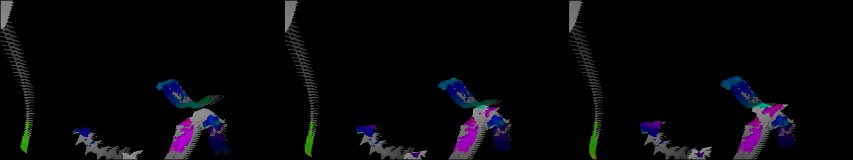
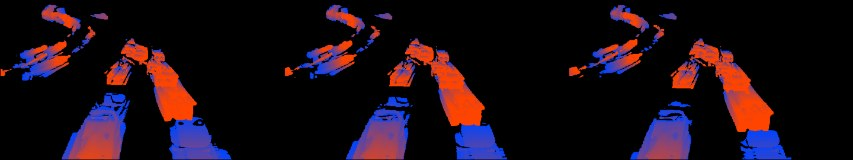
Fixes from the after-test and the blind critique
The hue legend now shows in the trails' measured view (a tester caught
its absence); picking an effect with nothing loaded scrolls the atlas to
that effect's row (two testers got lost exactly there); the caption
strip and the instrument margin no longer show a stale effect and an
empty gauge on the landing; the viewfinder's question-strip words now
match the effect names; 'except the background' and 'fastest moving
cells' replace the two labels the critique called out; a brighter
specimen strip for Leave trails. Verdict X-1 records the results: all
four goals reached, the two built combinations now found in one or two
clicks where the baseline never found them.

Claude-Session: https://claude.ai/code/session_015Sy9n4AKD5EpJ8DTRzyYLn

diff --git a/src/styles/main.css b/src/styles/main.css
@@ -95,8 +95,8 @@ kbd { font: 500 11px/1 var(--mono); border: 1px solid var(--rule); border-radius
 .plates button.active { color: var(--ink); font-weight: 600; border-bottom-color: var(--accent); }
 #app[data-layout='viewfinder'] .plates { display: none; }
 
-/* variants: an effect's looks as rows of pills (caption, and the viewfinder fan) */
-.choices { display: grid; gap: 4px; margin-top: 7px; }
+/* variants: an effect's looks as pills, one wrapping row (caption and fan) */
+.choices { display: flex; flex-wrap: wrap; align-items: baseline; gap: 4px 16px; margin-top: 6px; }
 .choice { display: flex; flex-wrap: wrap; align-items: baseline; gap: 4px 6px; font: 400 11px/1 var(--mono); }
 .choice > span { color: var(--soft); margin-right: 2px; }
 .choice button { background: none; border: 1px solid var(--rule); border-radius: 999px; padding: 4px 9px; font: 400 11px/1 var(--mono); color: var(--soft); }
@@ -224,9 +224,10 @@ kbd { font: 500 11px/1 var(--mono); border: 1px solid var(--rule); border-radius
 
 /* caption strip */
 .cap { display: grid; grid-template-columns: minmax(280px, 1.25fr) minmax(280px, 2fr) auto; column-gap: 28px; row-gap: 6px; align-items: end; border-top: 1px solid var(--ink); padding-top: 8px; }
-.cap-mode h1 { margin: 0; font: 600 38px/0.9 var(--serif); letter-spacing: -0.03em; white-space: nowrap; }
-.cap-mode h1 small { font: 400 11px/1 var(--mono); letter-spacing: 0; color: var(--soft); margin-left: 8px; vertical-align: 12px; }
-.cap-mode p { margin: 5px 0 0; font: italic 400 13px/1.25 var(--serif); color: var(--soft); max-width: 44ch; display: -webkit-box; -webkit-line-clamp: 3; -webkit-box-orient: vertical; overflow: hidden; }
+.cap-mode h1 { margin: 0; font: 600 30px/0.95 var(--serif); letter-spacing: -0.03em; white-space: nowrap; }
+.cap-mode h1 small { font: 400 11px/1 var(--mono); letter-spacing: 0; color: var(--soft); margin-left: 8px; vertical-align: 8px; }
+.cap-mode p { margin: 4px 0 0; font: italic 400 13px/1.25 var(--serif); color: var(--soft); max-width: 44ch; display: -webkit-box; -webkit-line-clamp: 2; -webkit-box-orient: vertical; overflow: hidden; }
+.cap-mode p:empty { display: none; }
 
 .ruler { position: relative; height: 82px; font: 400 11px/1 var(--mono); color: var(--soft); }
 .ruler-track { position: absolute; inset: 0; }
@@ -255,8 +256,10 @@ kbd { font: 500 11px/1 var(--mono); border: 1px solid var(--rule); border-radius
 .ruler-mark-trail { --flag: 9px; --mark: var(--soft); }
 /* label below the axis, anchored to the marker's foot so a taller phone hit box cannot lift it */
 .ruler-mark-trail b { top: auto; bottom: -15px; background: var(--paper); color: var(--soft) !important; padding: 1px 4px; z-index: 1; }
-/* nothing to play yet: the transport would only be dead buttons */
+/* nothing to play yet: the atlas is the page, so the caption strip and the
+   instrument margin would only show a stale effect and an empty gauge */
 #app[data-source='empty'] .play, #app[data-source='empty'] .scrub { visibility: hidden; }
+#app[data-layout='plate'][data-source='empty'] .cap, #app[data-source='empty'] .readings { display: none; }
 .ruler-now { right: 0; width: 2px; height: 30px; background: var(--ink); transform: none; }
 .ruler-readout { margin: 0; position: absolute; left: 0; right: 0; bottom: 14px; font: italic 400 14px/1.35 var(--serif); color: var(--ink); max-width: 52ch; }
 

diff --git a/src/ui/shell.js b/src/ui/shell.js
@@ -323,6 +323,12 @@ export function initShell({ root, session }) {
     if (Object.keys(next).length) session.setParams(next);
     view.fan = false;
     applyMode();
+    // With nothing loaded yet, the pick leads to the effect's own page of
+    // the atlas, where its footage waits.
+    if (!session.loaded) {
+      const at = [...$('atlas').children][EFFECTS.indexOf(effect)];
+      at?.scrollIntoView({ block: 'start', behavior: 'smooth' });
+    }
   }
 
   /** The variants of an effect as rows of pills; shared by caption and fan. */
@@ -394,7 +400,9 @@ export function initShell({ root, session }) {
     const effect = effectForMode(mode.id);
     $('modeName').textContent = effect.label;
     $('modeIndex').textContent = `Plate ${effect.numeral} · ${mode.label}`;
-    $('modeBlurb').textContent = session.modeProblem() || effect.promise;
+    // The promise already carried the landing; the caption keeps its room
+    // for what needs saying now (a mode that cannot run here).
+    $('modeBlurb').textContent = session.modeProblem() || '';
     buildChoices($('capChoices'), effect);
     const all = Object.assign(document.createElement('button'), { type: 'button', className: 'choice-all', textContent: 'All controls' });
     all.append(Object.assign(document.createElement('kbd'), { textContent: 'P' }));

diff --git a/src/app/effects.js b/src/app/effects.js
@@ -61,7 +61,7 @@ export const EFFECTS = [
     sample: 'Trees in Wind',
     also: ['Flowing River', 'Flower Opening'],
     strip: 'atlas/highlight.jpg',
-    ask: 'MOTION',
+    ask: 'HIGHLIGHT',
   },
   {
     id: 'cutout',
@@ -90,7 +90,7 @@ export const EFFECTS = [
     sample: 'Bees at the Hive',
     also: ['Crossing from Above'],
     strip: 'atlas/cutout.jpg',
-    ask: 'CUT-OUTS',
+    ask: 'CUT OUT',
   },
   {
     id: 'trails',
@@ -136,7 +136,7 @@ export const EFFECTS = [
         options: [
           { label: 'everything', params: { flowOnly: 'all' } },
           { label: 'only the movers', params: { flowOnly: 'mask' } },
-          { label: 'all but the background', params: { flowOnly: 'foreground' } },
+          { label: 'except the background', params: { flowOnly: 'foreground' } },
         ],
       },
     ],
@@ -166,7 +166,7 @@ export const EFFECTS = [
     sample: 'Sleeping Kitten',
     also: [],
     strip: 'atlas/magnify.jpg',
-    ask: 'TINY CHANGES',
+    ask: 'MAGNIFY',
   },
   {
     id: 'heat',

diff --git a/src/ui/legend.js b/src/ui/legend.js
@@ -13,7 +13,7 @@
 /** [mode id, which of its params mean "coloured by heading"] */
 const USES_HEADING = {
   flow: (p) => p.flowShow === 'colour' || p.flowShow === 'arrows' || (p.flowShow === 'particles' && p.traceColour === 'heading'),
-  history: (p) => p.historyShow === 'direction',
+  history: (p) => p.historyShow === 'direction' || p.historyShow === 'measured',
   schlieren: (p) => p.schlierenShow === 'direction' || (p.schlierenShow === 'traces' && p.traceColour === 'heading'),
 };
 

diff --git a/src/ui/readings.js b/src/ui/readings.js
@@ -181,7 +181,7 @@ export function initReadings({ root, plate, session }) {
   // ── Instruments (promoted readings; docs/readings-panel.md) ─
   const peak = el('div', 'rd-peak');
   const peakValue = el('b', '', '—');
-  peak.append(peakValue, el('span', '', 'peak px/s · 95th pct'));
+  peak.append(peakValue, el('span', '', 'peak px/s · fastest moving cells'));
   const lineBox = el('div', 'rd-line');
   const lineCanvas = el('canvas');
   lineCanvas.width = 220;

diff --git a/docs/verdicts.md b/docs/verdicts.md
@@ -1322,3 +1322,33 @@ Also: the interface audit rules hold at desktop and phone sizes with the
 margin open (picture share, contrast, overlaps, 44 px targets), and a fresh
 critique finds the result distinct and of one piece with the Plate, not a
 generic dashboard.
+
+**Result (same protocol, fresh agents, 2026-11-15).** All four goals reached:
+
+| Goal | Before | After |
+|---|---|---|
+| 1. Traffic direction | reached, 1 step (labelled sample) | reached, 3 steps via the effect's own name (the sample path remains) |
+| 2. Own URL → gull paths | sample fallback after 10 actions; URL abandoned | trails in 1 effective click; URL typing was blocked by the test harness (focus bug in the driver, not the app), Escape-"reset" and mid-test resets were the harness reloading the page |
+| 3. Trails by true direction | NOT reached (near-miss accepted) | **reached**: "Coloured by: true measured direction" found in 2 clicks |
+| 4a. Kitten breathing | reached, 1 step | reached, 2 steps |
+| 4b. Mute the amplified noise | NOT reached in 12 actions | **reached** in 1 further click ("Still areas: muted") |
+
+Testers' words: "the control labels are excellent — 'Leave trails' and
+'Coloured by true measured direction' read exactly like my goal";
+"'Still areas: amplified too / muted' was a perfectly worded control for
+exactly the noise problem."
+
+Interface audit: clean at 1440×900 (picture share 0.525, min contrast 4.78,
+nothing clipped/overlapping) and at 390×844 (share 1, min contrast 11.46,
+all targets ≥ 44 px), and on the landing (min contrast 5.63). Blind
+critique verdict: "distinct-and-coherent … nothing here reads as a generic
+dashboard", with defects that were fixed in the same branch (stale caption
+and empty instrument on the landing, a pill-label wrap, phone/desktop
+effect-name drift, a jargon label) or logged: arrows-on-black defaults,
+the desktop legend wheel is unlabelled, "Mirror" is ambiguous beside
+Camera, near-black specimen strips for the dark effects. One real bug the
+test caught and this branch fixes: the hue legend now also shows in the
+trails' measured view.
+
+Found and fixed along the way: picking an effect with nothing loaded now
+scrolls the atlas to that effect's row (two testers got lost exactly there).

diff --git a/README.md b/README.md
@@ -27,9 +27,9 @@ How each mode works, and what its controls mean, is in **[docs/modes.md](docs/mo
 
 ## Using it
 
-1. Open a video file, paste a video or HLS URL, or choose the camera or the screen. There are sample clips to start from: three plain ones, and eight that each open in the mode they show off, with fitting settings (a real candle plume for Schlieren, a motorway for Optical flow, and so on). Magnify has no sample yet.
-2. Pick a mode (keys **1** to **6**) and press **A** to let MotionDiff measure the clip and set the gap and threshold for you.
-3. Adjust from there in the parameter panel (**P**), or drag the markers on the time ruler under the picture.
+1. The opening page is an atlas of six effects — highlight motion, cut out the movers, leave trails, map speed & direction, magnify the invisible, reveal heat & air — each with a filmstrip and a "watch it on …" button that opens it playing on footage that shows it off. Or open your own video file, paste a video or HLS URL, or choose the camera or the screen.
+2. Pick an effect (keys **1** to **6**) and its look from the choices under the picture; press **A** to let MotionDiff measure the clip and set the gap and threshold for you.
+3. Adjust from there in the parameter panel (**P**), or drag the markers on the time ruler under the picture. The measured numbers sit beside the picture as instruments (**I**).
 
 A few more keys: **Space** play and pause, **← →** step a frame, **S** split the picture against the original, **D** cycle the display (diff, overlay, glow, data), **F** fullscreen viewfinder, **T** light and dark, **R** record the output as WebM, **?** the full list.
 

diff --git a/docs/development.md b/docs/development.md
@@ -46,6 +46,7 @@ Useful URL switches in a dev build: `?renderer=canvas2d` forces the Canvas 2D fa
 │   │   ├── analyze.js              Auto-configure: noise floor, threshold and gap
 │   │   └── energy.js               Motion grid to pitch and pan, for sonification
 │   ├── app/
+│   │   ├── effects.js              The six effects: modes folded by what they do, variants as visible choices
 │   │   ├── modes/                  The mode registry: one module per mode, index.js, shared params
 │   │   ├── session.js              Everything the interface drives: sources, transport, recording
 │   │   ├── pipeline.js             Per-frame orchestration, renderer selection
